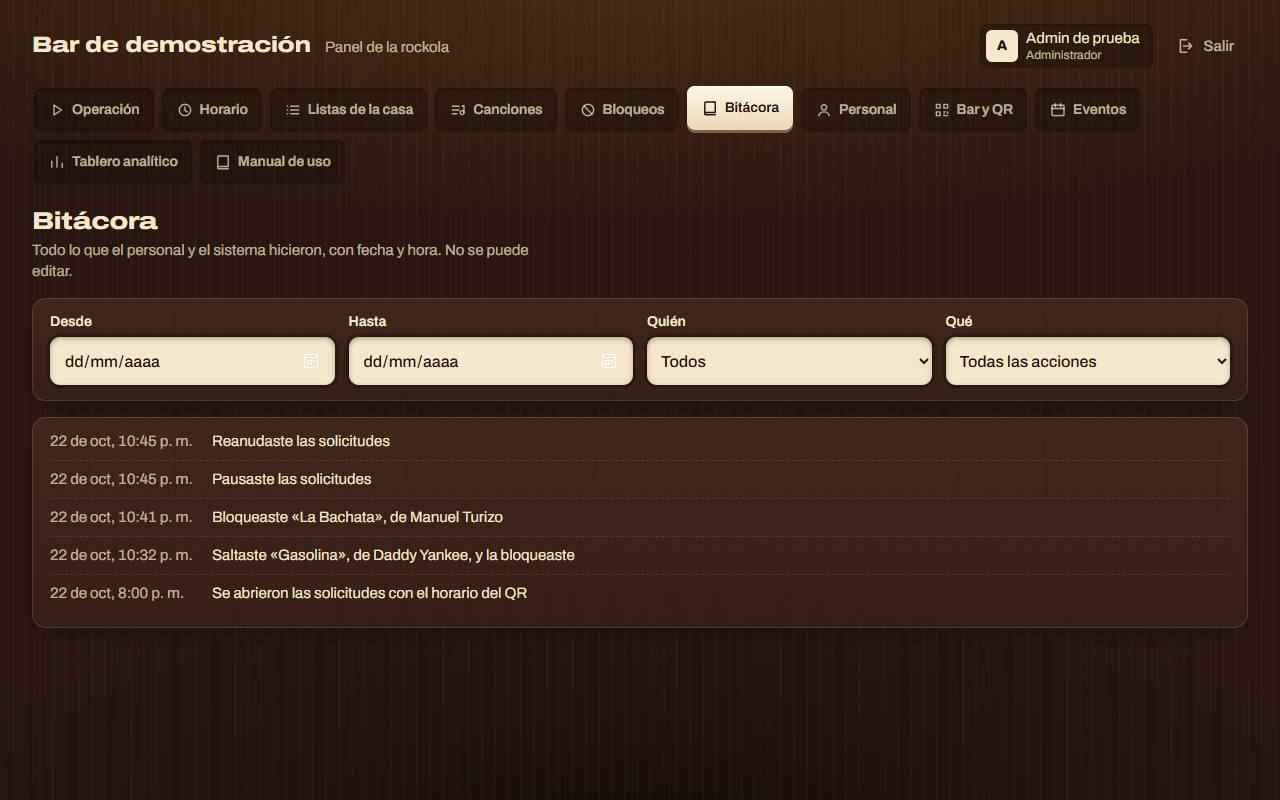
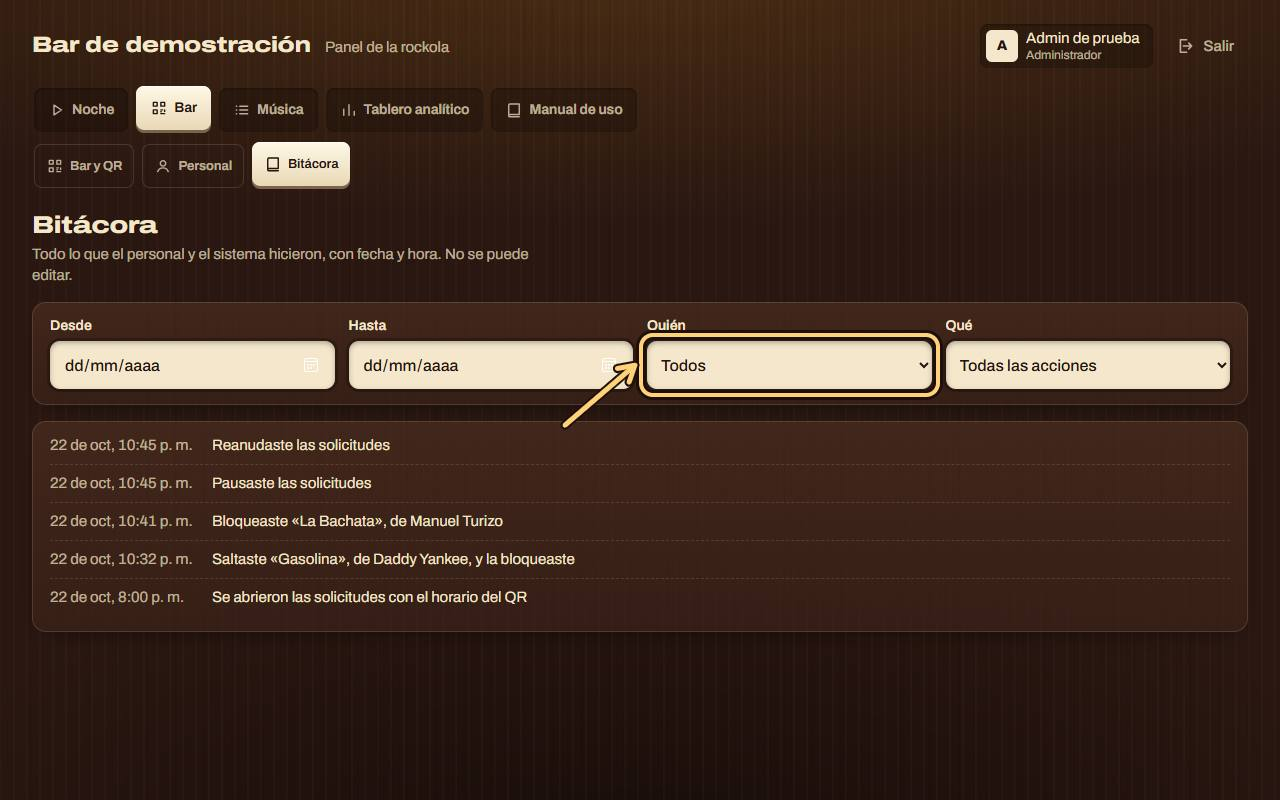
docs(manual): guía paso a paso, capturas con marcas en todos los temas y etiquetas de color (RNF-016)
Punto 20 de la lista del equipo.

- «Configurar el bar paso a paso» abre el manual del Administrador.
- Temas nuevos o con imagen nueva: Canciones, Saltar o pausar la música, Cerrar la noche o
  mantenimiento y el menú por grupos; ningún tema queda sin captura.
- El script de capturas marca con anillo y flecha (tokens ámbar claro y nogal) dónde se toca,
  sobre la pantalla de verdad.
- Etiquetas «Para empezar», «En la noche» y «Solo el Administrador» en el índice y en cada tema.
- La captura destapó que «Clasificar las que faltan» usaba la tecla estrecha: ahora es ancha.

diff --git a/frontend/web/e2e/capturas.spec.ts b/frontend/web/e2e/capturas.spec.ts
@@ -1,21 +1,74 @@
-import { type Page, test } from '@playwright/test';
+import { type Locator, type Page, test } from '@playwright/test';
 import path from 'node:path';
 import { abrir } from './support';
 
 /**
  * Las capturas del manual de uso (RNF-016): se rehacen con `npm run capturas -w @rockola/web`
  * cada vez que cambia una pantalla que el manual muestra, y quedan en `public/manual/`.
- * Simulación con el reloj quieto: la misma noche de los prototipos.
+ * Simulación con el reloj quieto: la misma noche de los prototipos. Cada captura lleva marcado,
+ * con un anillo y una flecha, dónde se toca (punto 20 del equipo): como se hace aquí con la
+ * pantalla de verdad, la marca sigue al botón aunque la interfaz se mueva.
  */
 test.use({ viewport: { width: 1280, height: 800 }, deviceScaleFactor: 1 });
 
 const destino = (nombre: string) => path.join(import.meta.dirname, '..', 'public', 'manual', `${nombre}.jpg`);
-const tomar = (page: Page, nombre: string) => page.screenshot({ path: destino(nombre), type: 'jpeg', quality: 72 });
+
+/** Toma la captura con los objetivos marcados y quita las marcas después. */
+async function tomar(page: Page, nombre: string, marcar: Locator[] = []) {
+  const cajas = [];
+  for (const objetivo of marcar) {
+    const caja = await objetivo.first().boundingBox();
+    if (caja) cajas.push(caja);
+  }
+  // Los colores salen de los tokens de la página (ámbar con halo de nogal), no de valores sueltos.
+  await page.evaluate((cajas) => {
+    const capa = document.createElement('div');
+    capa.id = 'marcas-manual';
+    capa.style.cssText = 'position:fixed;inset:0;pointer-events:none;z-index:2147483647;color:var(--ambar-claro)';
+    const svg = 'http://www.w3.org/2000/svg';
+    for (const c of cajas) {
+      const m = 8;
+      const anillo = document.createElement('div');
+      anillo.style.cssText = `position:absolute;left:${c.x - m}px;top:${c.y - m}px;width:${c.width + 2 * m}px;height:${c.height + 2 * m}px;border:4px solid currentColor;border-radius:14px;box-shadow:0 0 0 3px var(--nogal-hondo),inset 0 0 0 3px var(--nogal-hondo)`;
+      capa.appendChild(anillo);
+      // La flecha llega desde la izquierda; si no cabe, desde la derecha, y si tampoco, desde abajo.
+      const porIzquierda = c.x > 120;
+      const porDerecha = !porIzquierda && c.x + c.width + 120 < window.innerWidth;
+      const punta = porIzquierda
+        ? { x: c.x - m - 4, y: c.y + c.height / 2 }
+        : porDerecha
+          ? { x: c.x + c.width + m + 4, y: c.y + c.height / 2 }
+          : { x: c.x + Math.min(c.width / 2, 160), y: c.y + c.height + m + 4 };
+      const cola = porIzquierda ? { x: punta.x - 70, y: punta.y + 60 } : porDerecha ? { x: punta.x + 70, y: punta.y + 60 } : { x: punta.x + 60, y: punta.y + 70 };
+      // La punta: dos trazos a 30° del cuerpo de la flecha.
+      const angulo = Math.atan2(cola.y - punta.y, cola.x - punta.x);
+      const ala = (giro: number) => ({ x: punta.x + 18 * Math.cos(angulo + giro), y: punta.y + 18 * Math.sin(angulo + giro) });
+      const [a1, a2] = [ala(Math.PI / 6), ala(-Math.PI / 6)];
+      const dibujo = document.createElementNS(svg, 'svg');
+      dibujo.setAttribute('width', String(window.innerWidth));
+      dibujo.setAttribute('height', String(window.innerHeight));
+      dibujo.style.cssText = 'position:absolute;inset:0;overflow:visible';
+      for (const [ancho, color] of [[9, 'var(--nogal-hondo)'], [5, 'currentColor']] as const) {
+        const trazo = document.createElementNS(svg, 'path');
+        trazo.setAttribute('d', `M${cola.x},${cola.y} L${punta.x},${punta.y} M${a1.x},${a1.y} L${punta.x},${punta.y} L${a2.x},${a2.y}`);
+        trazo.setAttribute('fill', 'none');
+        trazo.setAttribute('stroke-linecap', 'round');
+        trazo.setAttribute('stroke-linejoin', 'round');
+        trazo.style.cssText = `stroke:${color};stroke-width:${ancho}px`;
+        dibujo.appendChild(trazo);
+      }
+      capa.appendChild(dibujo);
+    }
+    document.body.appendChild(capa);
+  }, cajas);
+  await page.screenshot({ path: destino(nombre), type: 'jpeg', quality: 72 });
+  await page.evaluate(() => document.getElementById('marcas-manual')?.remove());
+}
 
 test('capturas del manual', async ({ page }) => {
-  test.setTimeout(120_000);
+  test.setTimeout(180_000);
   await abrir(page, '/panel/entrar');
-  await tomar(page, 'entrar');
+  await tomar(page, 'entrar', [page.getByRole('button', { name: 'Entrar' })]);
 
   await page.getByLabel('Correo').fill('admin@rockola.demo');
   await page.getByLabel('Clave', { exact: true }).fill('rockola-demo');
@@ -23,38 +76,44 @@ test('capturas del manual', async ({ page }) => {
   const franja = page.getByRole('region', { name: 'Estado del servicio' });
   await franja.waitFor();
   await page.waitForTimeout(600);
-  await tomar(page, 'operacion');
+  const menu = page.getByRole('navigation', { name: 'Secciones del panel' });
+  await tomar(page, 'menu', [menu.locator('.panel-subnav').first()]);
+  await tomar(page, 'operacion', [franja]);
+  await tomar(page, 'musica', [page.getByRole('button', { name: 'Saltar', exact: true }), page.getByRole('button', { name: 'Pausar música' })]);
+  await tomar(page, 'mantenimiento', [franja.getByRole('button', { name: 'Cerrar la noche' }), franja.getByRole('button', { name: 'Modo mantenimiento' })]);
 
   await franja.getByRole('button', { name: 'Pausar solicitudes' }).click();
   await page.getByText('En pausa, no se reciben canciones nuevas').waitFor();
-  await tomar(page, 'pausa');
+  await tomar(page, 'pausa', [franja.getByRole('button', { name: 'Reanudar solicitudes' })]);
   await franja.getByRole('button', { name: 'Reanudar solicitudes' }).click();
   await page.getByText('Abierto, recibiendo canciones').waitFor();
 
   await page.getByRole('button', { name: 'Retirar TQG' }).first().click();
   await page.getByRole('dialog').getByRole('radio', { name: 'Duplicada' }).check();
-  await tomar(page, 'retirar');
+  await tomar(page, 'retirar', [page.getByRole('dialog').getByRole('radio', { name: 'Duplicada' })]);
   await page.getByRole('dialog').getByRole('button', { name: 'Cancelar' }).click();
 
   await page.getByRole('button', { name: 'Bloquear', exact: true }).click();
   await page.getByRole('dialog').getByLabel('Motivo').fill('No va con la noche de salsa');
-  await tomar(page, 'bloquear');
+  await tomar(page, 'bloquear', [page.getByRole('dialog').getByLabel('Motivo')]);
   await page.getByRole('dialog').getByRole('button', { name: 'Cancelar' }).click();
 
-  for (const [ruta, nombre, esperar] of [
-    ['/panel/horario', 'horario', 'Guardar horario'],
-    ['/panel/listas/l-salsa', 'listas', 'Agregar canciones'],
-    ['/panel/bloqueos', 'bloqueos', 'Mostrar'],
-    ['/panel/usuarios', 'personal', 'Agregar a alguien'],
-    ['/panel/establecimiento', 'bar-qr', 'Código QR de las mesas'],
-    ['/panel/bitacora', 'bitacora', 'Quién'],
-    ['/panel/eventos', 'eventos', 'Próximos'],
-    ['/panel/analitica', 'tablero', 'En estas noches'],
-  ] as const) {
+  const paginas: [string, string, string, (p: Page) => Locator][] = [
+    ['/panel/horario', 'horario', 'Guardar horario', (p) => p.getByRole('button', { name: 'Guardar horario' })],
+    ['/panel/listas/l-salsa', 'listas', 'Agregar canciones', (p) => p.getByRole('search')],
+    ['/panel/canciones', 'canciones', 'Clasificar las que faltan', (p) => p.getByRole('button', { name: 'Clasificar las que faltan' })],
+    ['/panel/bloqueos', 'bloqueos', 'Mostrar', (p) => p.getByRole('main').getByRole('button', { name: /Desbloquear/ })],
+    ['/panel/usuarios', 'personal', 'Agregar a alguien', (p) => p.getByRole('button', { name: 'Agregar a alguien' })],
+    ['/panel/establecimiento', 'bar-qr', 'Código QR de las mesas', (p) => p.locator('.qr-grande__codigo')],
+    ['/panel/bitacora', 'bitacora', 'Quién', (p) => p.getByLabel('Quién')],
+    ['/panel/eventos', 'eventos', 'Próximos', (p) => p.getByRole('button', { name: 'Agregar evento' })],
+    ['/panel/analitica', 'tablero', 'En estas noches', (p) => p.getByRole('navigation', { name: /tablero/i }).or(p.locator('.analitica-nav'))],
+  ];
+  for (const [ruta, nombre, esperar, objetivo] of paginas) {
     await page.goto(ruta);
     await page.getByText(esperar, { exact: false }).first().waitFor();
     await page.waitForTimeout(400);
-    await tomar(page, nombre);
+    await tomar(page, nombre, [objetivo(page)]);
   }
 
   // La TV sin vincular, con su código (RF-058). El código sale al azar en cada captura.
@@ -63,5 +122,5 @@ test('capturas del manual', async ({ page }) => {
   await tv.goto('/b/demo/pantalla');
   await tv.locator('.codigo-tv .tecla').first().waitFor();
   await tv.waitForTimeout(400);
-  await tomar(tv, 'pantalla-codigo');
+  await tomar(tv, 'pantalla-codigo', [tv.locator('.codigo-tv')]);
 });

diff --git a/frontend/web/components/gestion/Manual.tsx b/frontend/web/components/gestion/Manual.tsx
@@ -8,14 +8,34 @@ import { useEffect, useRef } from 'react';
 import { useYoDelPanel } from '@/components/panel/MarcoPanel';
 import { PaginaGestion } from './PaginaGestion';
 
-type Seccion = { id: string; titulo: string; para: Rol; pasos: string[]; imagen?: { archivo: string; texto: string } };
+/** `inicio`: la guía para dejar el bar listo, antes que todo lo demás (punto 20). */
+type Seccion = { id: string; titulo: string; para: Rol; inicio?: boolean; pasos: string[]; imagen?: { archivo: string; texto: string } };
 
 /**
  * El manual del panel (RNF-016, PB-42): pasos cortos con la captura de la pantalla de verdad.
  * Las capturas las genera `npm run capturas -w @rockola/web` (e2e/capturas.spec.ts) en
- * `public/manual/`, así se actualizan cuando cambia la interfaz. El Operador ve su parte.
+ * `public/manual/`, así se actualizan cuando cambia la interfaz; llevan marcado dónde tocar. El
+ * Operador ve su parte.
  */
 const SECCIONES: Seccion[] = [
+  {
+    id: 'configurar',
+    titulo: 'Configurar el bar paso a paso',
+    para: 'administrador',
+    inicio: true,
+    pasos: [
+      'Arriba del panel las secciones van en grupos: Noche, Bar, Música, Análisis y Manual. Al tocar un grupo, debajo salen sus secciones.',
+      'En Bar, «Bar y QR»: revisa el nombre, la dirección y las reglas de los pedidos, y pulsa «Guardar datos».',
+      'En la misma página, genera el QR, descárgalo o imprímelo y ponlo en las mesas. Elige si abre la web o la app.',
+      'Enciende la TV del bar, abre su pantalla y escribe en «Pantallas» el código que muestra.',
+      'En Noche, «Horario»: marca los días y las horas en que se reciben canciones. Las solicitudes se abren y se cierran solas.',
+      'En Música, «Listas de la casa»: arma una lista y actívala. Suena cuando la cola está vacía y la noche abierta.',
+      'En Bar, «Personal»: agrega a quienes operan la noche. Cada cuenta recibe una clave temporal que se cambia al entrar.',
+      'Si hay karaoke, partido o noche temática, agrégalo en Noche, «Eventos».',
+      'Después de unas noches, corrige géneros en Música, «Canciones», y mira el tablero en Análisis.',
+    ],
+    imagen: { archivo: 'menu.jpg', texto: 'Los grupos del panel, marcados arriba.' },
+  },
   {
     id: 'entrar',
     titulo: 'Entrar al panel',
@@ -47,6 +67,7 @@ const SECCIONES: Seccion[] = [
       '«Pausar música» detiene la pantalla del bar; «Reanudar música» la sigue desde donde iba.',
       'Todo queda en el registro con tu nombre.',
     ],
+    imagen: { archivo: 'musica.jpg', texto: 'Las teclas «Saltar» y «Pausar música», marcadas.' },
   },
   {
     id: 'pausa',
@@ -169,6 +190,7 @@ const SECCIONES: Seccion[] = [
       'En «Tablero analítico» elige las noches arriba: todas, las últimas cuatro semanas, una noche o unas fechas. Cada noche entra al tablero cuando se cierra.',
       '«Resumen» dice cuánto se pidió, cuánto se esperó y cuánto sonó lo pedido frente a la lista de la casa. «Participación» muestra los géneros y las horas con más movimiento.',
       '«Diagnóstico» señala las canciones muy votadas que no sonaron, si pocos teléfonos deciden la cola y las noches flojas; los umbrales se cambian ahí mismo.',
+      '«Cubo» cruza género, hora y día o evento con el KPI que elijas; «Comparar» pone noches, días o eventos lado a lado.',
       '«Recomendaciones» sugiere cambios con el dato en que se basa y te lleva a la sección donde decides. Nada se aplica solo.',
     ],
     imagen: { archivo: 'tablero.jpg', texto: 'El resumen del tablero analítico.' },
@@ -181,17 +203,38 @@ const SECCIONES: Seccion[] = [
       '«Cerrar la noche» cierra las solicitudes hasta la próxima franja del horario; lo que quedaba en la cola se descarta.',
       '«Modo mantenimiento» cierra la noche y nadie puede pedir hasta que pulses «Reanudar solicitudes». El historial se guarda.',
     ],
+    imagen: { archivo: 'mantenimiento.jpg', texto: '«Cerrar la noche» y «Modo mantenimiento», marcadas en la franja de arriba.' },
+  },
+  {
+    id: 'canciones',
+    titulo: 'Corregir el género de las canciones',
+    para: 'administrador',
+    pasos: [
+      'En Música, «Canciones», salen primero las canciones del bar que no tienen género.',
+      '«Clasificar las que faltan» las vuelve a revisar en YouTube y dice cuántas encontró.',
+      'A las demás elige el género en «Cambiar a» y pulsa «Guardar». Lo que pones a mano no se vuelve a cambiar solo.',
+      'El cubo en vivo del tablero las cuenta de inmediato.',
+    ],
+    imagen: { archivo: 'canciones.jpg', texto: '«Clasificar las que faltan», marcada, y la lista de canciones sin género.' },
   },
 ];
 
 /** El tema abierto vive en `?tema=` de la URL: se puede enlazar y el botón Atrás del navegador sirve. */
 const rutaDe = (id: string) => `/panel/manual?tema=${id}`;
 
-function IndiceGrupo({ titulo, temas, actual }: { titulo: string; temas: Seccion[]; actual: string }) {
+/** Las etiquetas de color del manual (punto 20): de un vistazo, de quién es cada tema. */
+function Insignia({ tema }: { tema: Seccion }) {
+  if (tema.inicio) return <span className="etiqueta etiqueta--luz">Para empezar</span>;
+  return tema.para === 'administrador' ? <span className="etiqueta etiqueta--cereza">Solo el Administrador</span> : <span className="etiqueta etiqueta--noche">En la noche</span>;
+}
+
+function IndiceGrupo({ titulo, temas, actual }: { titulo: Seccion; temas: Seccion[]; actual: string }) {
   if (temas.length === 0) return null;
   return (
     <>
-      <h2>{titulo}</h2>
+      <h2>
+        <Insignia tema={titulo} />
+      </h2>
       <ul>
         {temas.map((s) => (
           <li key={s.id}>
@@ -209,8 +252,9 @@ export function Manual() {
   const yo = useYoDelPanel();
   const esAdmin = yo.usuario.rol === 'administrador';
   const secciones = SECCIONES.filter((s) => esAdmin || s.para === 'operador');
-  const delOperador = secciones.filter((s) => s.para === 'operador');
-  const delAdmin = secciones.filter((s) => s.para === 'administrador');
+  const inicio = secciones.filter((s) => s.inicio);
+  const delOperador = secciones.filter((s) => !s.inicio && s.para === 'operador');
+  const delAdmin = secciones.filter((s) => !s.inicio && s.para === 'administrador');
   const router = useRouter();
   const pedido = useSearchParams().get('tema');
   // Un tema desconocido, o que este rol no ve, abre el primero.
@@ -255,15 +299,16 @@ export function Manual() {
           </Selector>
         </div>
         <nav className="caja manual-indice hidden lg:block" aria-label="Temas del manual">
-          <IndiceGrupo titulo="En la noche" temas={delOperador} actual={tema.id} />
-          <IndiceGrupo titulo="Solo el Administrador" temas={delAdmin} actual={tema.id} />
+          <IndiceGrupo titulo={inicio[0]!} temas={inicio} actual={tema.id} />
+          <IndiceGrupo titulo={delOperador[0]!} temas={delOperador} actual={tema.id} />
+          <IndiceGrupo titulo={delAdmin[0]!} temas={delAdmin} actual={tema.id} />
         </nav>
         <section key={tema.id} className="caja manual-seccion" aria-labelledby={`t-${tema.id}`}>
           <div className="caja__cabeza mb-0!">
             <h2 id={`t-${tema.id}`} ref={titulo} tabIndex={-1} className="focus:outline-none">
               {tema.titulo}
             </h2>
-            {tema.para === 'administrador' ? <span>Solo el Administrador</span> : null}
+            <Insignia tema={tema} />
           </div>
           <ol className="manual-pasos">
             {tema.pasos.map((p) => (

diff --git a/packages/ui/src/panel.css b/packages/ui/src/panel.css
@@ -256,6 +256,8 @@
   .etiqueta { display: inline-flex; align-items: center; height: 22px; padding: 0 8px; border-radius: var(--radio-insignia); font-size: 12px; font-weight: 700; background: var(--hueco); color: var(--crema-2); vertical-align: 2px; margin-left: 6px; }
   .etiqueta--luz { background: var(--ambar); color: var(--tinta); }
   .etiqueta--cereza { background: var(--cereza); color: var(--crema); }
+  /* AÑADIDO (punto 20): «En la noche» en el manual, en crema para distinguirse de «Solo el Administrador». */
+  .etiqueta--noche { background: var(--crema); color: var(--tinta); }
 
   .formulario-fila { display: grid; gap: 14px; grid-template-columns: repeat(auto-fit, minmax(min(100%, 200px), 1fr)); }
   .formulario-fila > .campo { min-width: 0; }
@@ -341,6 +343,7 @@
     .manual-indice { position: sticky; top: 16px; max-height: calc(100dvh - 32px); overflow-y: auto; }
   }
   .manual-indice h2 { font-size: 14px; font-weight: 700; color: var(--crema-2); margin: 12px 0 4px; }
+  .manual-indice h2 .etiqueta, .manual-seccion .caja__cabeza .etiqueta { margin-left: 0; height: 26px; font-size: 13px; }
   .manual-indice h2:first-child { margin-top: 0; }
   .manual-indice ul { list-style: none; margin: 0; padding: 0; }
   .manual-indice a { display: flex; align-items: center; min-height: 44px; padding: 6px 10px; border-radius: var(--radio-dia); font-size: 15px; font-weight: 600; line-height: 1.25; color: var(--crema); text-decoration: none; }

diff --git a/frontend/web/e2e/gestion.spec.ts b/frontend/web/e2e/gestion.spec.ts
@@ -187,6 +187,20 @@ test('manual: el Operador ve su parte y nada de la gestión (PB-42, RNF-016)', a
   expect(pedidas).toEqual([]);
 });
 
+test('manual del Administrador: empieza por la guía paso a paso y cada tema lleva su imagen (punto 20)', async ({ page }) => {
+  await entrar(page);
+  await page.goto('/panel/manual');
+  await expect(page.getByRole('heading', { level: 2, name: 'Configurar el bar paso a paso' })).toBeVisible();
+  await expect(page.locator('.manual-seccion .etiqueta')).toHaveText('Para empezar');
+  for (const tema of ['musica', 'mantenimiento', 'canciones']) {
+    await page.goto(`/panel/manual?tema=${tema}`);
+    const imagen = page.locator('.manual-figura img');
+    await expect(imagen).toBeVisible();
+    expect(await imagen.evaluate((i: HTMLImageElement) => i.complete && i.naturalWidth > 0)).toBe(true);
+  }
+  await sinViolaciones(page, 'manual del Administrador');
+});
+
 test('destino del QR: el mismo código abre la web o, en Android, ofrece la app (RF-065)', async ({ page, browser }) => {
   await entrar(page);
   await page.goto('/panel/establecimiento');

diff --git a/packages/ui/src/temas/panel-afiche.css b/packages/ui/src/temas/panel-afiche.css
@@ -108,6 +108,7 @@
   & .etiqueta { border-radius: var(--afiche-radio-fino); color: var(--afiche-tinta); }
   & .etiqueta--luz { background: var(--afiche-amarillo); color: var(--afiche-tinta); }
   & .etiqueta--cereza { background: var(--afiche-tinta); color: var(--afiche-amarillo); }
+  & .etiqueta--noche { background: var(--afiche-papel); color: var(--afiche-tinta); box-shadow: inset 0 0 0 2px var(--afiche-tinta); }
   & .dialogo { background: var(--afiche-papel); }
   & .dialogo__titulo { font-family: var(--fuente-cartel-afiche); font-size: 32px; font-stretch: normal; font-weight: 400; line-height: 1; text-transform: uppercase; }
   & .manual-figura img { border-radius: 0; box-shadow: 0 0 0 2px var(--afiche-tinta); }

diff --git a/packages/ui/src/temas/panel-vidrio.css b/packages/ui/src/temas/panel-vidrio.css
@@ -112,6 +112,7 @@
   & .alerta-panel a { color: var(--vidrio-texto); }
   & .etiqueta--luz { background: var(--vidrio-acento); color: var(--vidrio-tinta); }
   & .etiqueta--cereza { background: var(--vidrio-votado); color: var(--vidrio-texto); }
+  & .etiqueta--noche { background: var(--vidrio-superficie-alta); color: var(--vidrio-texto); }
   & .dialogo { background: var(--vidrio-carbon); box-shadow: inset 0 0 0 1px var(--vidrio-borde); }
   & .dialogo__titulo { font-stretch: normal; font-weight: 600; letter-spacing: -.01em; }
   /* El radio de tecla de Vidrio es de píldora: en una captura la volvería un óvalo. */

diff --git a/frontend/web/components/gestion/CatalogoCanciones.tsx b/frontend/web/components/gestion/CatalogoCanciones.tsx
@@ -140,7 +140,7 @@ function Reclasificar({ onAviso }: { onAviso: (a: { tipo: 'luz' | 'error'; titul
   });
   return (
     <div className="catalogo-reclasificar mt-3">
-      <Tecla ocupada={accion.isPending} onClick={() => accion.mutate()}>
+      <Tecla tamano="ancha" ocupada={accion.isPending} onClick={() => accion.mutate()}>
         Clasificar las que faltan
       </Tecla>
       <p className="secundario text-[14px]">Vuelve a leer en YouTube las etiquetas, el título y la descripción de las que no tienen género. Lo que pusiste a mano no se toca.</p>

diff --git a/docs/05-ui-ux.md b/docs/05-ui-ux.md
@@ -291,6 +291,7 @@ píldoras por diseño (D13): ahí estas reglas 1 y 2 las reemplaza su prototipo.
 | 2026-11-25 | Panel, navegación | Las 11 secciones van en grupos: Noche (Operación, Horario, Eventos, Bloqueos), Bar (Bar y QR, Personal, Bitácora), Música (Listas de la casa, Canciones), Análisis y Manual. Una fila de teclas con los grupos y, debajo, una fila más sobria (contorno, sin relieve) con las secciones del grupo abierto. Todo son enlaces, sin menús que abrir. Un grupo con una sola sección enlaza directo y lleva su nombre | Puntos 3 y 14 del equipo. Música va junto a Análisis porque «Canciones» corrige el género que lee el tablero |
 | 2026-11-25 | Bar y QR, Canciones, Personal | Bar y QR: cada caja con su alto (sin hueco al estirarse), «Guardar datos», «Guardar diseño» y «Generar QR» a la derecha, y el QR centrado con su dirección debajo. Canciones: géneros en orden alfabético, «Clasificar las que faltan» con su explicación, y «Automático, de antes» para el género viejo sin origen. Personal: «Sin ingresos registrados todavía» | Puntos 14, 16, 17 y 18 del equipo |
 | 2026-11-25 | Tablero, Diagnóstico y Plataforma | Dos gráficas más en Diagnóstico con datos que ya llegaban: «Por qué no sonaron» (barras por causa, bajo la tabla de las muy votadas) y «Solicitudes por noche» (columnas, aparte de «Teléfonos por noche»: una medida por gráfica, sin doble eje). Usan `Barras` y `Columnas` con sus colores ya validados en los tres temas (skill dataviz). Plataforma: selector «Ir a un bar» sobre la lista | Puntos 15 y 19 del equipo, RF-052, RF-064 |
+| 2026-11-25 | Manual | Guía «Configurar el bar paso a paso» al principio, para el Administrador. Temas nuevos o con captura nueva: Canciones, Saltar o pausar la música, Cerrar la noche o mantenimiento y los grupos del menú. Cada captura marca dónde se toca con un anillo ámbar claro y una flecha, con halo de nogal para leerse sobre cualquier fondo; las pone el script de capturas sobre la pantalla de verdad, así siguen al botón si la interfaz cambia. Etiquetas: «Para empezar» (ámbar), «En la noche» (crema) y «Solo el Administrador» (cereza), en el índice y en cada tema | Punto 20 del equipo, RNF-016. El ámbar del manual no compite con la interfaz: vive en las capturas y en la etiqueta del primer tema |
 | 2026-11-21 | App Android, logo | Ícono adaptativo nuevo en lugar del robot de Android: el arco de luz con marco de cromo, sus tubos y el disco que suena, sobre nogal, con los valores de `tokens.css`. Versión de una tinta para los íconos temáticos. Se descartaron la tarjeta de título dentro del arco (se lee como radio) y la ficha con arco (se lee como moneda con reja). Contraste mínimo de la silueta 3,46:1 y todo dentro de la zona segura | El usuario pidió el logo de la app; es la marca de Rockola, por eso no cambia con el tema del bar |
 | 2026-11-21 | Plataforma | Cada bar llega plegado con nombre, dirección web, dirección y horario. La tecla «Ver n cuentas» queda hundida al abrir; «Agregar cuenta» pasa adentro. Un bar recién creado queda abierto | El usuario pidió ver primero los bares y desplegar las cuentas |
 | 2026-11-21 | Manual | Un tema por página, con índice lateral desde 1024 px y lista desplegable en el teléfono, teclas Anterior y Siguiente y la posición. El tema vive en `?tema=` de la URL | El usuario pidió paginarlo; 16 temas seguidos obligaban a un desplazamiento muy largo |

diff --git a/docs/02-requisitos.md b/docs/02-requisitos.md
@@ -278,7 +278,7 @@ Should) y PB-49 en Should (RF-054 dice Could). Aquí manda el requisito.
 | RNF-013 | Mantenibilidad | Capas y paquetes del doc 03 | Revisión de código |
 | RNF-014 | Trazabilidad | Las acciones del panel quedan en la bitácora | e2e del panel |
 | RNF-015 | Calidad de datos analíticos | Mostrar origen y fecha de los datos; rotular los de ejemplo | Revisión |
-| RNF-016 | Manual de uso | Manual ilustrado dentro del panel, por rol | Iteración 4 |
+| RNF-016 | Manual de uso | Manual ilustrado dentro del panel, por rol. Desde el 2026-11-25 (punto 20): empieza con «Configurar el bar paso a paso», todos los temas tienen captura con anillo y flecha donde se toca, y cada tema lleva su etiqueta de color («Para empezar», «En la noche», «Solo el Administrador») | Iteración 4 |
 
 ## Reglas de negocio
 
